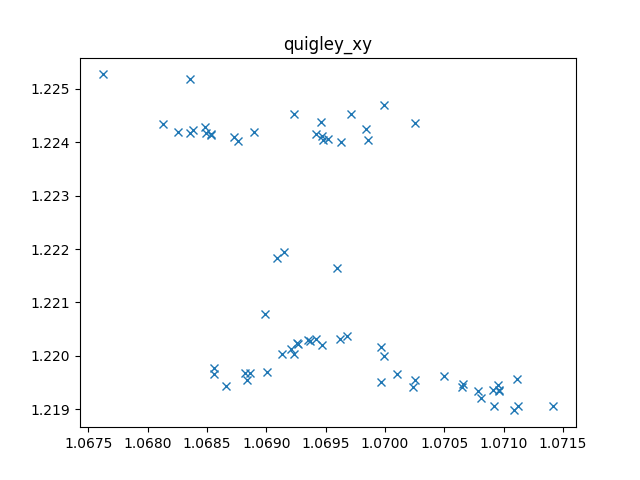
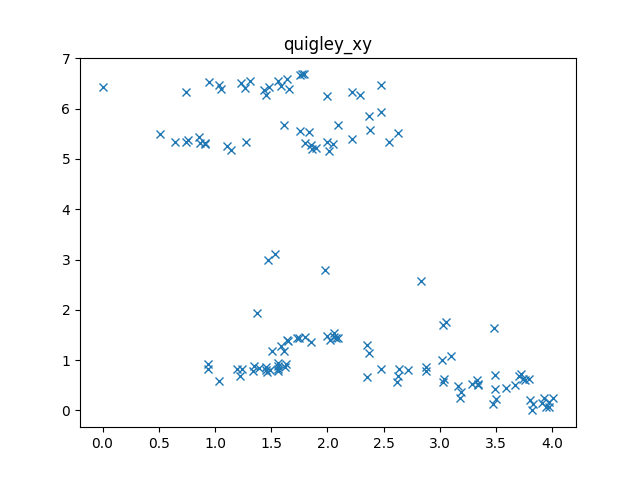
Adding this shit!

diff --git a/icra_plots/plot.py b/icra_plots/plot.py
@@ -6,7 +6,9 @@ import csv
 from tf.transformations import euler_from_quaternion
 
 # DATA_DIRECTORY = "pp_data"
-DATA_DIRECTORY = "optitrack"
+DATA_DIRECTORY = "optitrack/full_data"
+# DATA_DIRECTORY = "optitrack/not_full"
+# DATA_DIRECTORY = "optitrack"
 # DATA_DIRECTORY = "data_icra/pp/8-29-noi"
 # DATA_DIRECTORY = "quigley_data/9-4-duty_cycle-post-david-tuning"
 
@@ -45,13 +47,10 @@ def calc_statistics(poses, name):
             writer.writerow([key, value])
 
 def load_from_csv(path):
-    try:
-        raw = np.genfromtxt(str(path), delimiter=',',dtype=str)
-        labels = raw[:1]
-        data = raw[1:].astype(np.float)
-        return labels, data
-    except Exception:
-        return None, None
+    raw = np.genfromtxt(str(path), delimiter=',',dtype=str)
+    labels = raw[:1]
+    data = raw[1:].astype(np.float)
+    return labels, data
 
 def get_intervals(cmd, cmd_data, rel_data):
     intervals = []
@@ -126,6 +125,9 @@ def match_points_time(to_be_matched, to_be_matched_from):
 
 
 def plot_points(loc, data, vive, name="plot"):
+    print(loc.shape)
+    print(data.shape)
+    print(vive.shape)
     start_vive, _ = get_intervals(loc, data, vive)
     print(start_vive[0].shape)
     poses = [s[-1][1:] for s in start_vive]
@@ -227,7 +229,10 @@ def plot_quigley():
 
 def save_plot(x, y, title):
     fig = plt.figure()
-    plt.plot(x, y, "x")
+    x -= np.min(x)
+    y -= np.min(y)
+    print("blah blah blah", x.shape)
+    plt.plot(x * 1000.0, y * 1000.0, "x")
     plt.title(title)
     fig.savefig(title)
 
